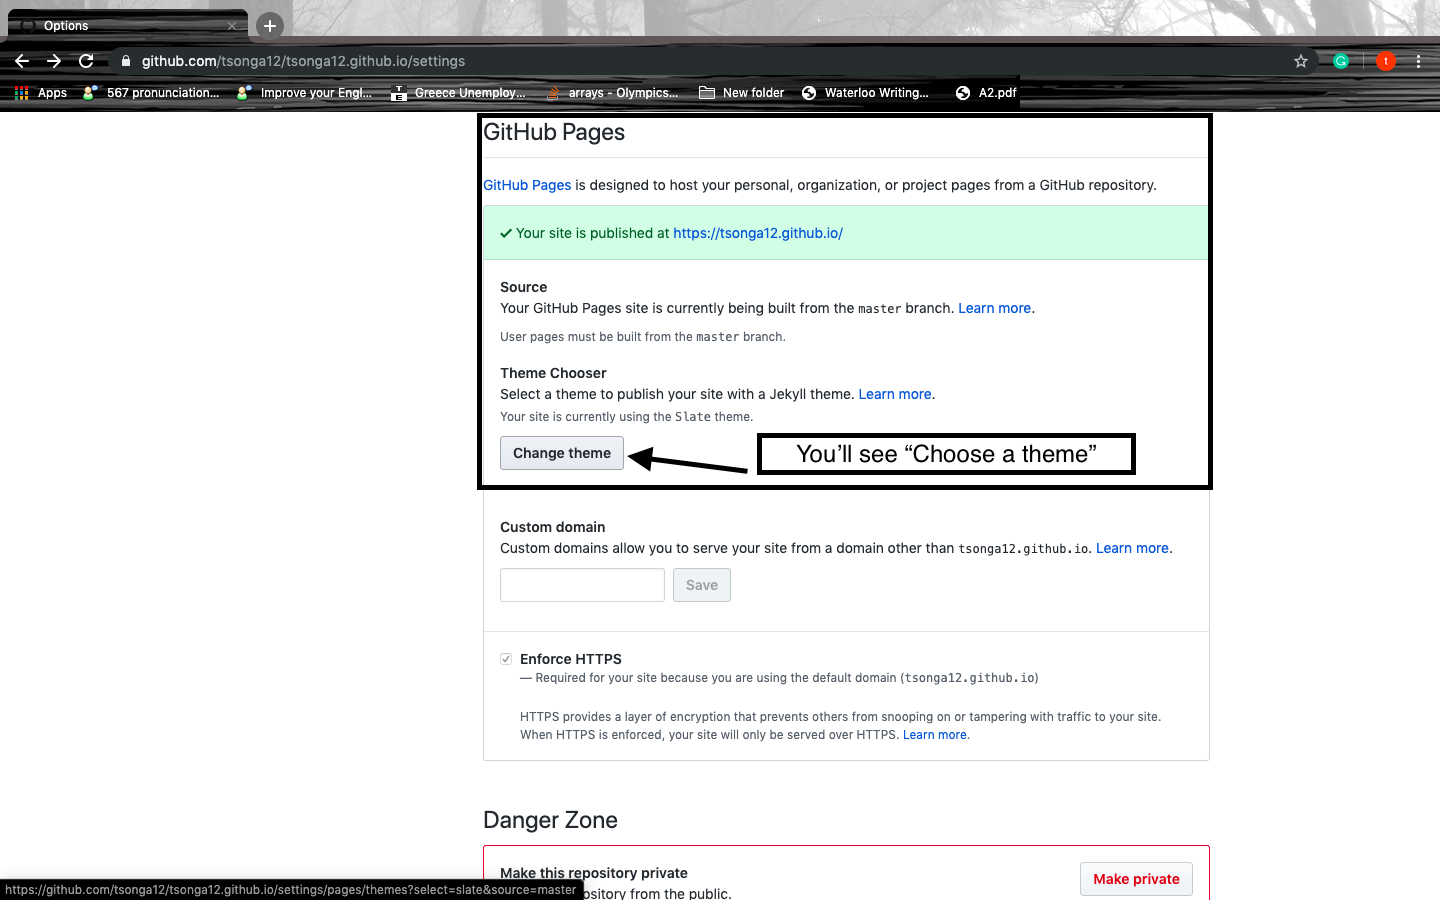
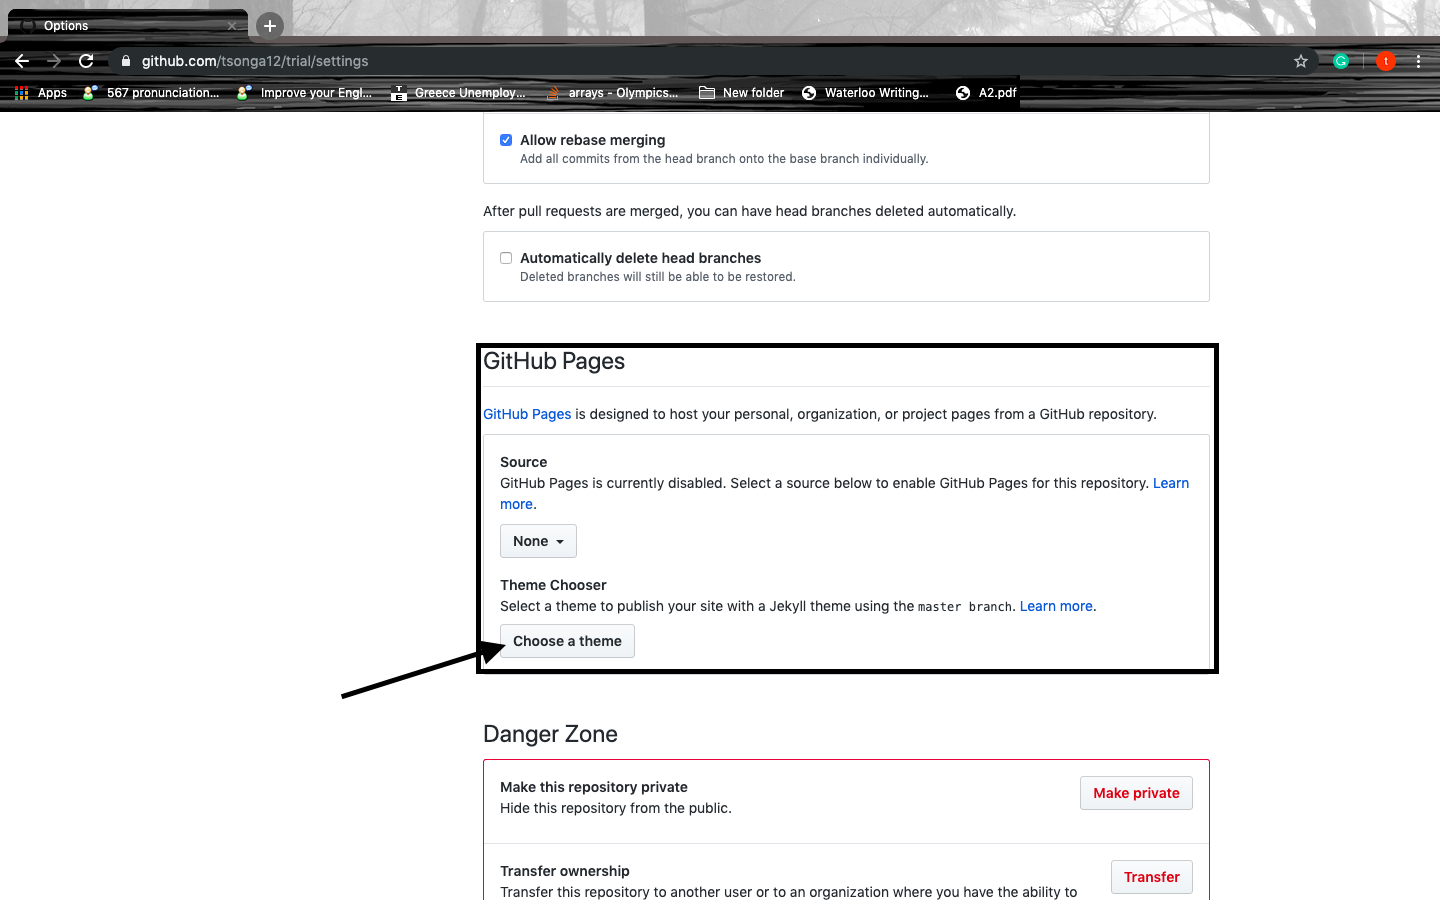
add images

diff --git a/README.md b/README.md
@@ -46,7 +46,13 @@
 ![Save file](Images/saveREADME.png)
 
 ### Format the resume using Jekyll theme chosen from GitHub Pages settings
+  Now the resume it's up. It's time to format the resume using the Jekyll theme chosen from GitHub Pages settings. Here are the steps:
 
+  1. Go to the repository then choose Settings.
+
+![settings](Images/settings.png)
+
+ 2. Scroll down until you see "GitHub Pages" section 
 
 
 
